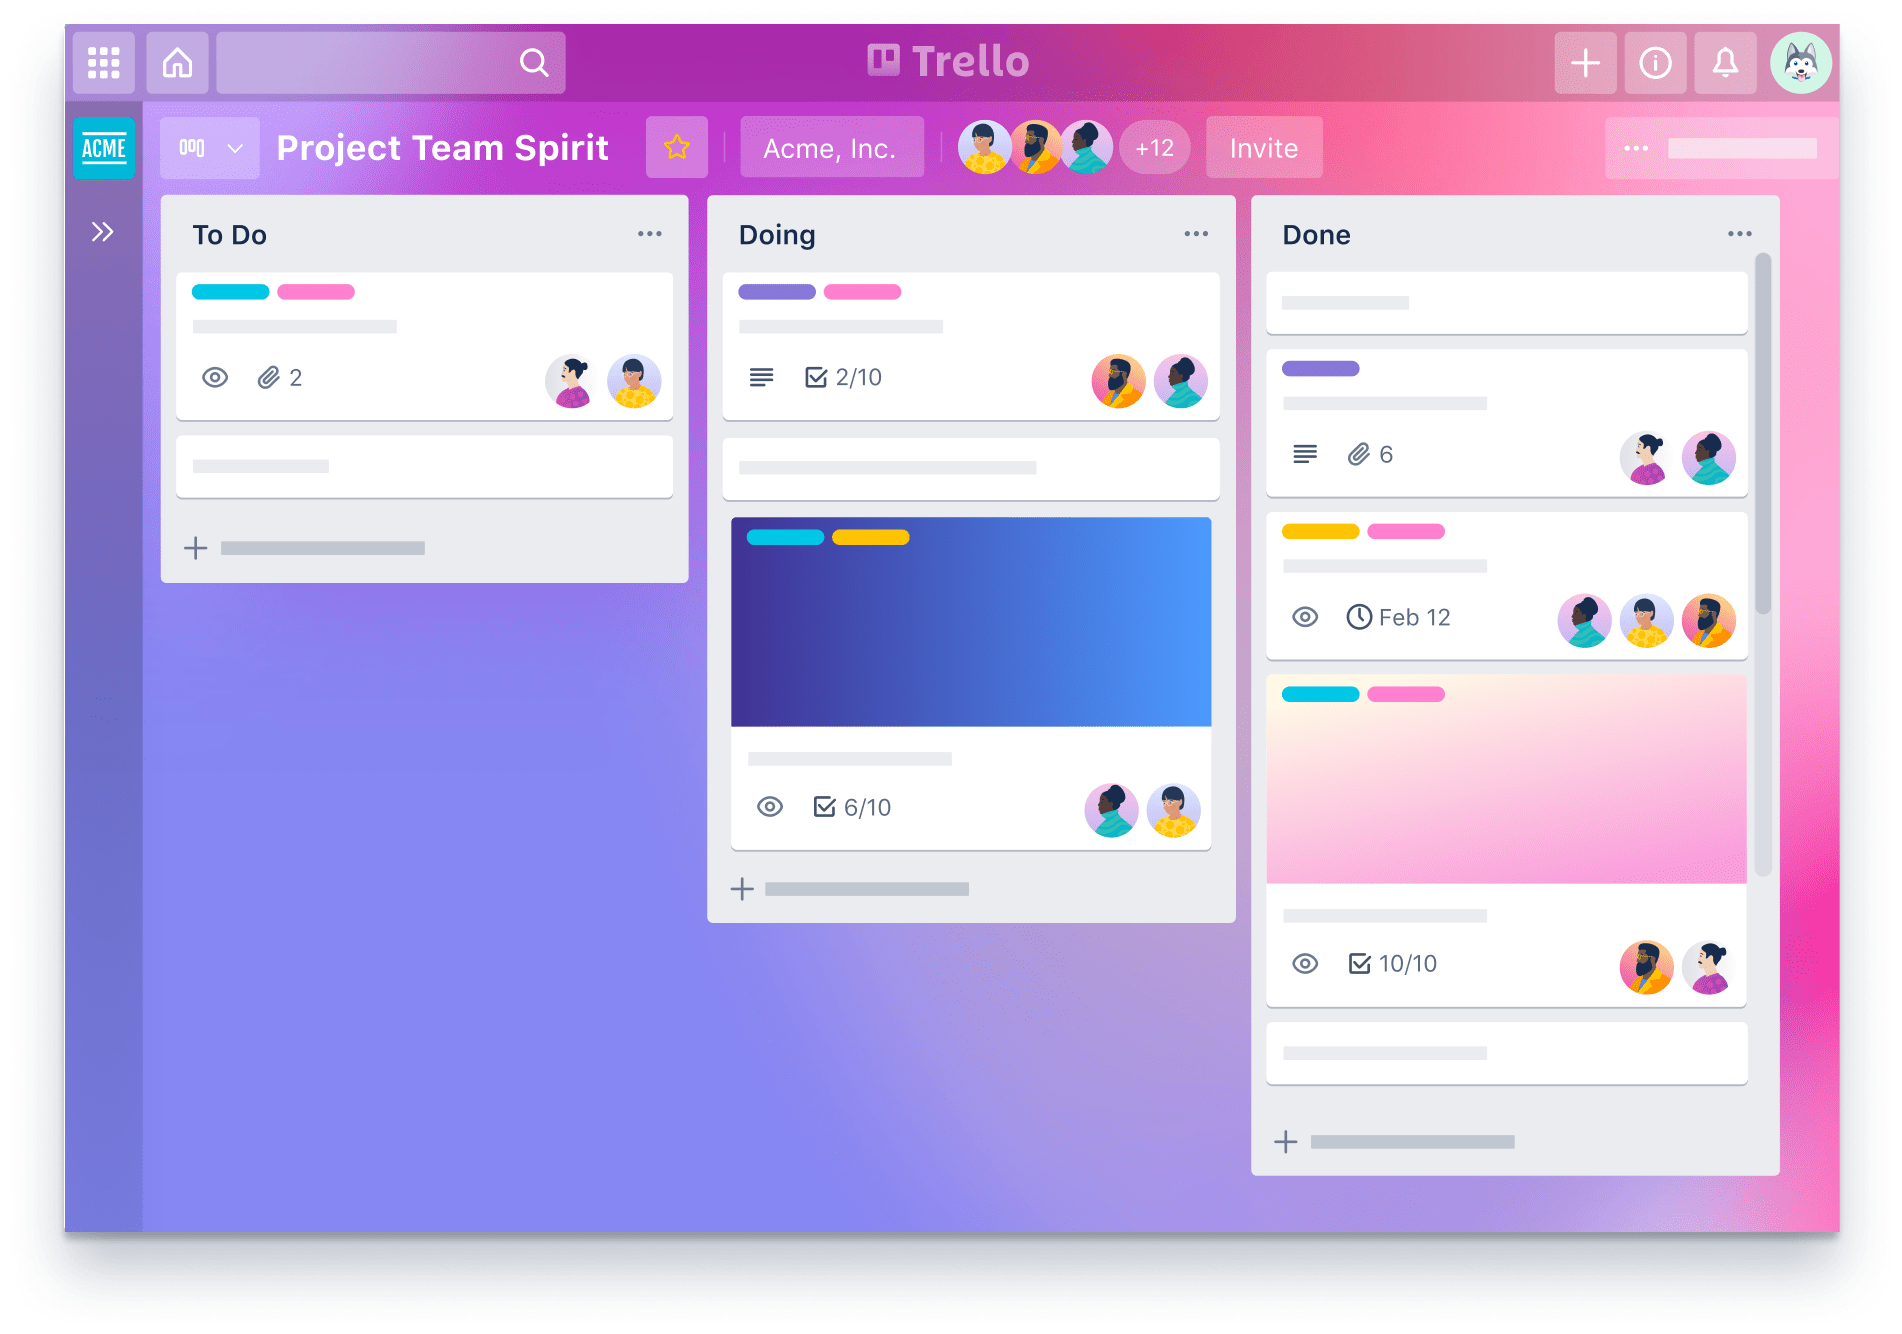
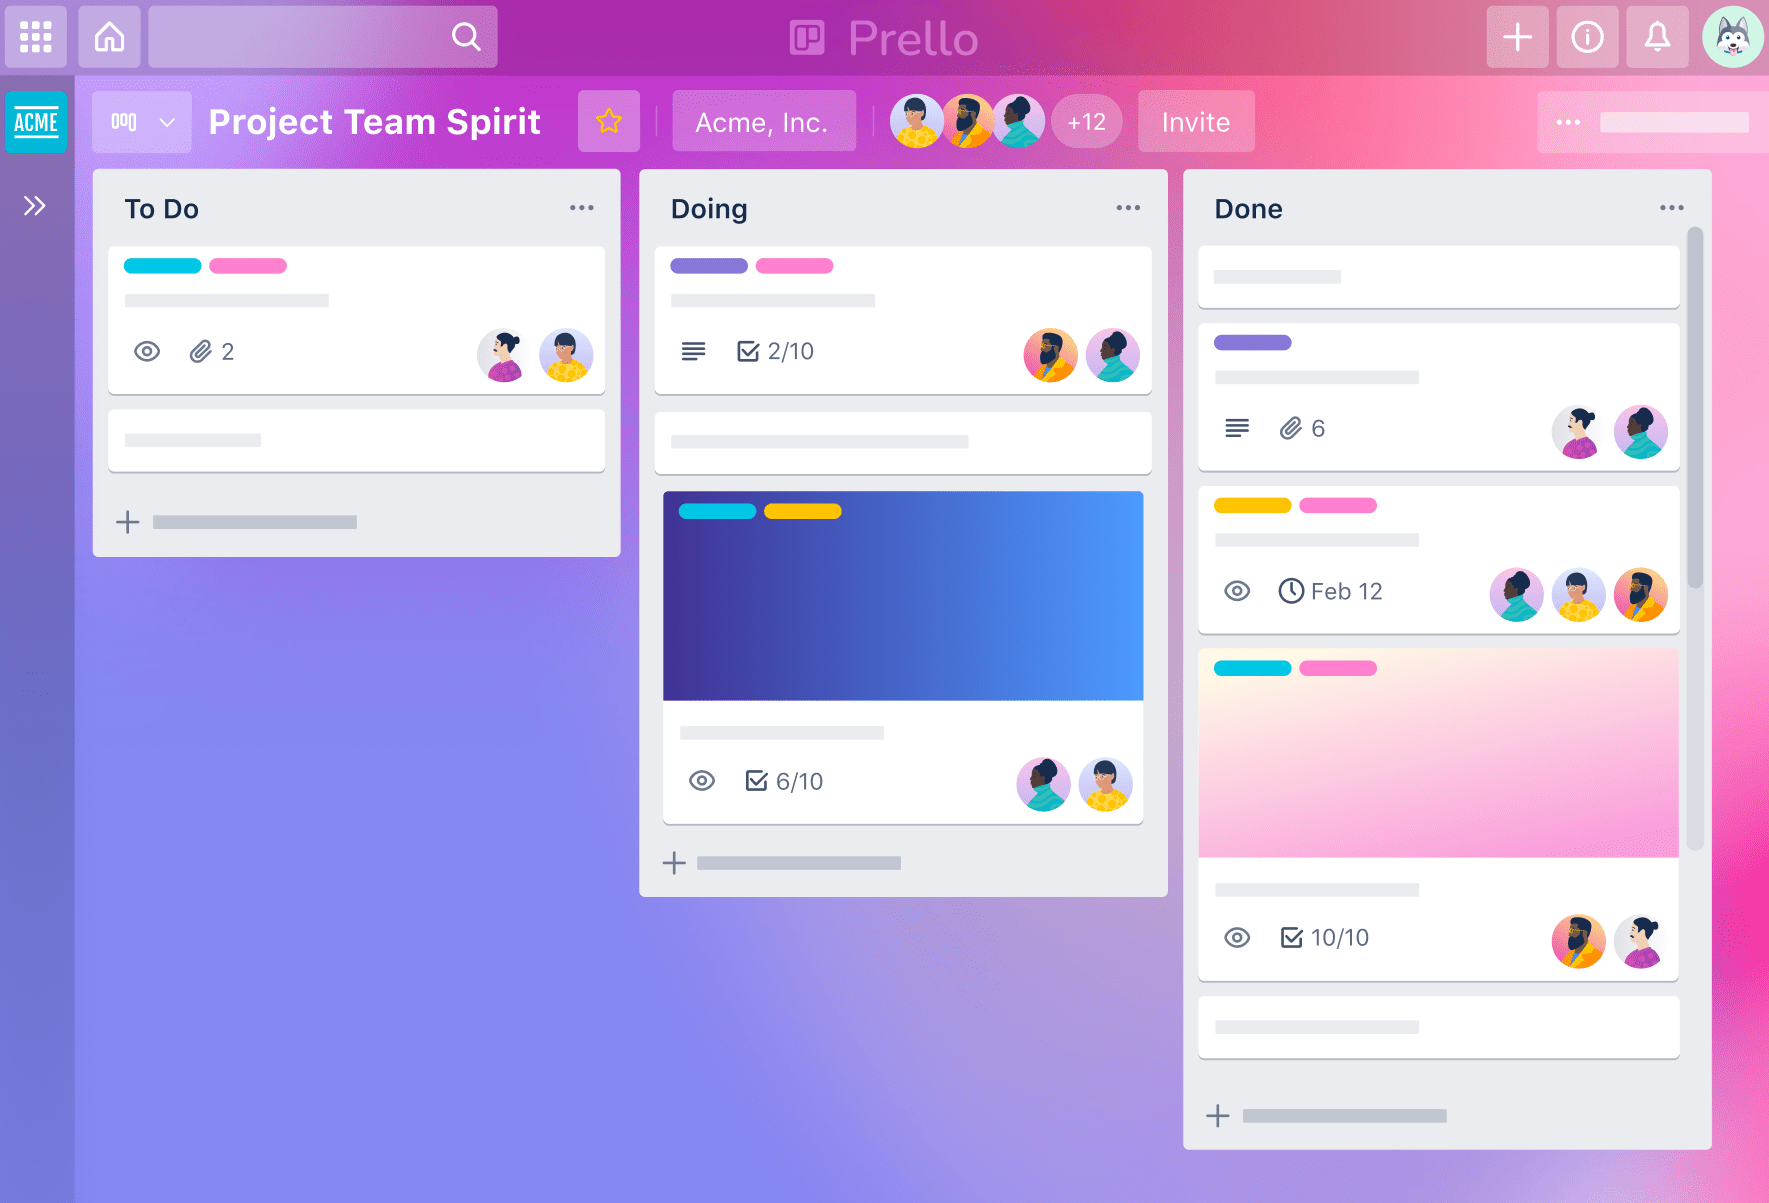
sync

diff --git a/src/assets/style/cmps/board/_task-preview.scss b/src/assets/style/cmps/board/_task-preview.scss
@@ -26,14 +26,14 @@
 
         .task-label {
             display: flex;
-            padding: 6px 8px;
+            padding: 6px 8px 0;
 
             .label {
                 display: inline-block;
                 height: 8px;
                 width: 40px;
                 border-radius: 3px;
-                margin: 0 4px 4px 0;
+                margin: 0 4px -2px 0;
 
                 // &.expanded {
                 //     display: inline-block;
@@ -57,7 +57,7 @@
 
         .task-title {
             width: 100%;
-            padding: 6px 8px;
+            padding: 8px 8px 6px;
         }
 
         .task-status {
@@ -72,7 +72,8 @@
             .members {
                 gap: 4px;
                 height: 28px;
-                margin: 0 -4px 0 0;
+                // margin: 0 -4px 0 0;
+                margin: 0 -4px 2px 0;
                 margin-inline-start: 8px;
 
 
@@ -96,7 +97,7 @@
                     min-width: 20px;
                     height: 16px;
                     margin-inline-end: 4px;
-                 
+
 
                     svg {
                         height: 16px;

diff --git a/src/services/board/board-statistics.js b/src/services/board/board-statistics.js
@@ -12,6 +12,7 @@ export const boardStatistics = {
     getActivityStats,
     getActByMember,
     getChecklistCount,
+    getAttachsCount,
     getDates,
     hexToRgb
 
@@ -192,6 +193,10 @@ function getChecklistCount(board) {
     })
     const res = { todos, done }
     return res
+}
+
+function getAttachsCount(board){
+    console.log(board);
 }
 
 function getDates() {

diff --git a/src/cmps/icons/i-checked.jsx b/src/cmps/icons/i-checked.jsx
@@ -1,0 +1,5 @@
+export function IChecked() {
+    return <svg viewBox="0 0 24 24" >
+        <path d="M19,5.2L8.5,15.8c-0.3,0.3-0.8,0.3-1.1,0L5,13.3c-0.5-0.5-1.2-0.5-1.6,0l0,0c-0.5,0.5-0.5,1.2,0,1.6l3.8,3.8 c0.5,0.5,1.2,0.5,1.6,0L20.7,6.9c0.5-0.5,0.5-1.2,0-1.6l0,0C20.2,4.8,19.5,4.8,19,5.2z"/>
+    </svg>
+}

diff --git a/src/routes.js b/src/routes.js
@@ -2,7 +2,6 @@ import { Home } from './pages/home';
 import { Auth } from './pages/auth';
 import { Workspace } from './pages/workspace';
 import { Board } from './pages/board';
-import { TaskDetails } from './pages/task-details';
 
 export const routes = [
     {

diff --git a/src/root.cmp.js b/src/root.cmp.js
@@ -1,6 +1,5 @@
 import React from 'react'
 import { Switch, Route } from 'react-router-dom'
-import { TaskDetails } from './pages/task-details'
 import { routes } from './routes'
 
 export default function App() {

diff --git a/src/assets/style/cmps/board/_group-board.scss b/src/assets/style/cmps/board/_group-board.scss
@@ -11,7 +11,7 @@
 
     .group-header {
         height: 40px;
-        padding: 8px;
+        padding: 8px 8px 0 8px;
         border-radius: 3px 3px 0 0;
 
 
